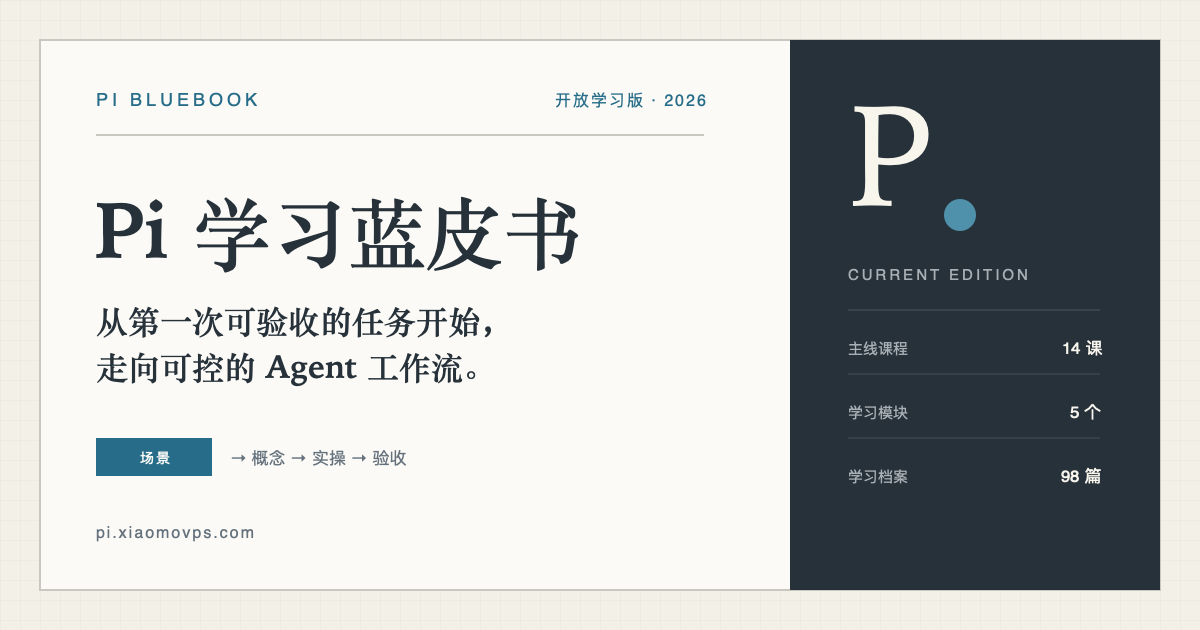
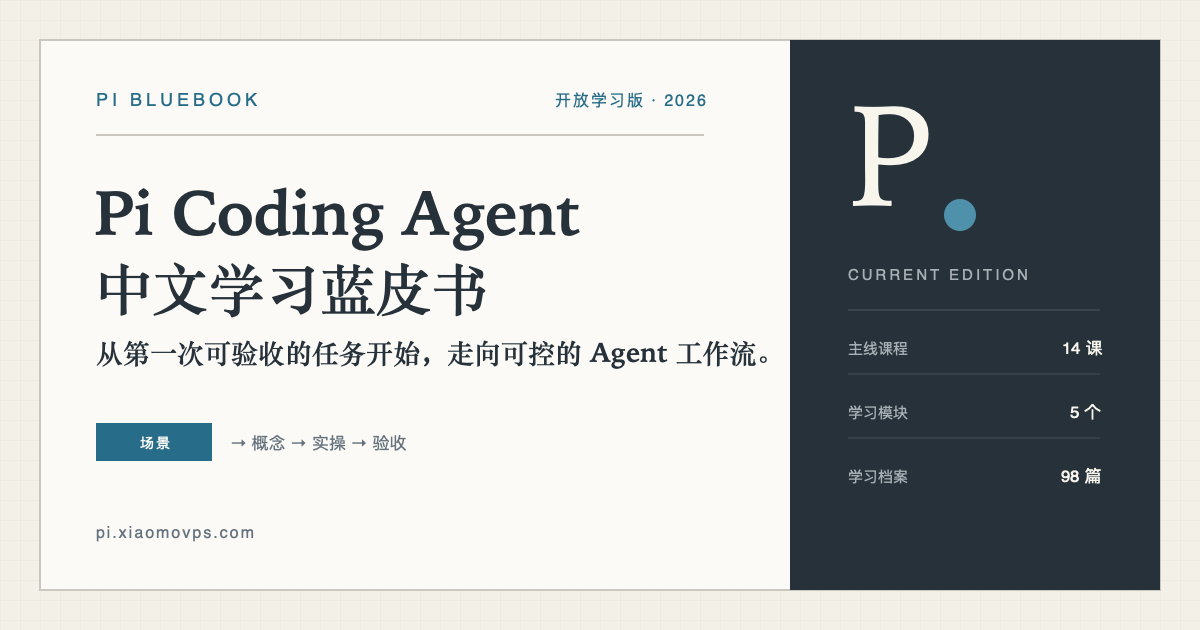
docs: improve GitHub discovery and project metadata

Changed region(s): [[0.0617, 0.3016, 0.6475, 0.6032], [0.0617, 0.6635, 0.3392, 0.754]]

diff --git a/README_zh-TW.md b/README_zh-TW.md
@@ -1,10 +1,19 @@
-# Pi 學習藍皮書
+# Pi 學習藍皮書｜Pi Coding Agent 中文學習路線
 
-一本面向中文初學者的非官方 Pi 學習手冊。先理解 Pi 是什麼、適合誰和真實使用門檻，再從安裝與登入開始，完成第一個可以獨立驗收的檔案任務，逐步學習上下文、工作流和擴充。
+一本面向中文初學者的非官方 Pi Coding Agent（極簡終端機 Coding Harness）學習手冊。從安裝、登入和第一個可驗收任務開始，逐步掌握工作階段（Session）、上下文（Context）、技能（Skill）、擴充功能（Extension）、子代理（Subagent）與長期 Agent 工作流。
 
-每一課按“場景 → 概念 → 實作 → 驗收”展開。目標是讓你知道從哪裡開始、每一步應該看到什麼，以及怎樣確認結果，而不只是複製一段命令。
+[![Quality checks](https://github.com/xiaomoBoy/pi-bluebook/actions/workflows/quality.yml/badge.svg)](https://github.com/xiaomoBoy/pi-bluebook/actions/workflows/quality.yml) [![License: MIT](https://img.shields.io/badge/License-MIT-276d89.svg)](LICENSE)
 
-[線上閱讀](https://pi.xiaomovps.com/zh-TW/) · [從導論開始](https://pi.xiaomovps.com/zh-TW/guide/introduction) · [反饋問題](https://github.com/xiaomoBoy/pi-bluebook/issues) · [簡體中文版](README.md)
+<img src="docs/public/github-social-preview.png" alt="Pi Coding Agent 中文學習藍皮書：從第一次可驗收的任務開始，走向可控的 Agent 工作流" width="1280">
+
+[線上閱讀](https://pi.xiaomovps.com/zh-TW/) · [從導論開始](https://pi.xiaomovps.com/zh-TW/guide/introduction) · [回報問題](https://github.com/xiaomoBoy/pi-bluebook/issues) · [簡體中文版](README.md)
+
+## 這是什麼
+
+- **真實學習路線**：不從功能清單開始，而是先完成一件可以親自檢查結果的小任務，再逐步進入工作階段、上下文、擴充功能和長期工作流。
+- **面向中文初學者**：同時提供 macOS 與 Windows Git Bash 路徑，命令、Pi 內部操作和任務文字分開說明。
+- **強調獨立驗收**：每一課按“場景 → 概念 → 實作 → 驗收”展開，不把 Agent 自述“完成了”當作完成。
+- **持續核驗更新**：版本、認證、模型和命令等易變資訊會標註核驗日期，並以 [Pi 官方文件](https://pi.dev/docs/latest) 和 [官方原始碼](https://github.com/earendil-works/pi-mono) 為準。
 
 ## 繁體中文版說明
 

diff --git a/README.md b/README.md
@@ -1,10 +1,19 @@
-# Pi 学习蓝皮书
+# Pi 学习蓝皮书｜Pi Coding Agent 中文学习路线
 
-一本面向中文初学者的非官方 Pi 学习手册。先理解 Pi 是什么、适合谁和真实使用门槛，再从安装与登录开始，完成第一个可以独立验收的文件任务，逐步学习上下文、工作流和扩展。
+一本面向中文初学者的非官方 Pi Coding Agent（极简终端 Coding Harness）学习手册。从安装、登录和第一个可验收任务开始，逐步掌握 Session、Context、Skill、Extension、Subagent 与长期 Agent 工作流。
 
-每一课按“场景 → 概念 → 实操 → 验收”展开。目标是让你知道从哪里开始、每一步应该看到什么，以及怎样确认结果，而不只是复制一段命令。
+[![Quality checks](https://github.com/xiaomoBoy/pi-bluebook/actions/workflows/quality.yml/badge.svg)](https://github.com/xiaomoBoy/pi-bluebook/actions/workflows/quality.yml) [![License: MIT](https://img.shields.io/badge/License-MIT-276d89.svg)](LICENSE)
+
+<img src="docs/public/github-social-preview.png" alt="Pi Coding Agent 中文学习蓝皮书：从第一次可验收的任务开始，走向可控的 Agent 工作流" width="1280">
 
 [在线阅读](https://pi.xiaomovps.com) · [从导论开始](https://pi.xiaomovps.com/guide/introduction) · [反馈问题](https://github.com/xiaomoBoy/pi-bluebook/issues) · [繁體中文版](README_zh-TW.md)
+
+## 这是什么
+
+- **真实学习路线**：不从功能清单开始，而是先完成一件可以亲自检查结果的小任务，再逐步进入会话、上下文、扩展和长期工作流。
+- **面向中文初学者**：同时提供 macOS 与 Windows Git Bash 路径，命令、Pi 内部操作和任务文字分开说明。
+- **强调独立验收**：每一课按“场景 → 概念 → 实操 → 验收”展开，不把 Agent 自述“完成了”当作完成。
+- **持续核验更新**：版本、认证、模型和命令等易变化信息会标注核验日期，并以 [Pi 官方文档](https://pi.dev/docs/latest) 和 [官方源码](https://github.com/earendil-works/pi-mono) 为准。
 
 ## 当前内容与学习路径
 

diff --git a/docs/zh-TW/index.md b/docs/zh-TW/index.md
@@ -1,17 +1,17 @@
 ---
 layout: home
-title: Pi 學習藍皮書
-titleTemplate: ':title｜中文初學者 Agent 學習路線'
-description: 面向中文初學者的 Pi 系統學習手冊，先理解 Pi，再從第一次任務走向可控的 Agent 工作流。
+title: Pi Coding Agent 學習藍皮書
+titleTemplate: ':title｜中文初學者實戰路線'
+description: 面向中文初學者的 Pi Coding Agent 系統教程，從安裝和第一次可驗收任務開始，逐步掌握工作階段、上下文、技能、擴充功能與長期 Agent 工作流。
 ---
 
 <main class="bluebook-home">
   <section class="bluebook-hero" aria-labelledby="bluebook-title">
     <div class="bluebook-hero__main">
       <p class="bluebook-kicker"><span>PI BLUEBOOK</span><span>開放學習版 · 2026</span></p>
-      <h1 id="bluebook-title">Pi 學習藍皮書</h1>
-      <p class="bluebook-deck">從第一次可驗收的任務開始，逐步理解工作階段（Session）、上下文（Context）、技能（Skill）、擴充功能（Extension）與長期工作流。</p>
-      <p class="bluebook-intro">一條為中文初學者重新編排的系統學習路線。先把一件真實的小事做完整，再一層一層搭出自己的 Pi。</p>
+      <h1 id="bluebook-title">Pi Coding Agent 學習藍皮書</h1>
+      <p class="bluebook-deck">從安裝和第一次可驗收任務開始，逐步理解工作階段（Session）、上下文（Context）、技能（Skill）、擴充功能（Extension）與長期工作流。</p>
+      <p class="bluebook-intro">一條為中文初學者重新編排的終端機 Coding 代理框架（Agent Harness）學習路線。先把一件真實的小事做完整，再一層一層搭出自己的 Pi。</p>
       <div class="bluebook-actions">
         <a class="bluebook-button bluebook-button--primary" href="/zh-TW/guide/introduction">從導論開始</a>
         <a class="bluebook-button" href="#reading-map">檢視內容地圖</a>

diff --git a/docs/index.md b/docs/index.md
@@ -1,17 +1,17 @@
 ---
 layout: home
-title: Pi 学习蓝皮书
-titleTemplate: ':title｜中文初学者 Agent 学习路线'
-description: 面向中文初学者的 Pi 系统学习手册，先理解 Pi，再从第一次任务走向可控的 Agent 工作流。
+title: Pi Coding Agent 学习蓝皮书
+titleTemplate: ':title｜中文初学者实战路线'
+description: 面向中文初学者的 Pi Coding Agent 系统教程，从安装和第一次可验收任务开始，逐步掌握 Session、Context、Skill、Extension 与长期 Agent 工作流。
 ---
 
 <main class="bluebook-home">
   <section class="bluebook-hero" aria-labelledby="bluebook-title">
     <div class="bluebook-hero__main">
       <p class="bluebook-kicker"><span>PI BLUEBOOK</span><span>开放学习版 · 2026</span></p>
-      <h1 id="bluebook-title">Pi 学习蓝皮书</h1>
-      <p class="bluebook-deck">从第一次可验收的任务开始，逐步理解 Session、Context、Skill、Extension 与长期工作流。</p>
-      <p class="bluebook-intro">一条为中文初学者重新编排的系统学习路线。先把一件真实的小事做完整，再一层一层搭出自己的 Pi。</p>
+      <h1 id="bluebook-title">Pi Coding Agent 学习蓝皮书</h1>
+      <p class="bluebook-deck">从安装和第一次可验收任务开始，逐步理解 Session、Context、Skill、Extension 与长期工作流。</p>
+      <p class="bluebook-intro">一条为中文初学者重新编排的终端 Coding Harness 学习路线。先把一件真实的小事做完整，再一层一层搭出自己的 Pi。</p>
       <div class="bluebook-actions">
         <a class="bluebook-button bluebook-button--primary" href="/guide/introduction">从导论开始</a>
         <a class="bluebook-button" href="#reading-map">查看内容地图</a>

diff --git a/.github/pull_request_template.md b/.github/pull_request_template.md
@@ -1,0 +1,19 @@
+## 修改内容
+
+请简要说明这次修改解决了什么问题。
+
+## 读者会看到什么变化
+
+请说明受影响的页面、步骤或学习路径。
+
+## 核对清单
+
+- [ ] 我保留了与本次问题无关的内容。
+- [ ] 我检查了正文、链接、图片和下载材料。
+- [ ] 如果修改了简体正文、导航或练习材料，我已同步并检查繁体版本。
+- [ ] 如果修改了网站内容、配置或样式，我已运行 `npm run docs:check`。
+- [ ] 我没有提交账号、API Key、私人路径、构建产物或其他敏感信息。
+
+## 补充说明
+
+如有官方来源、截图、测试环境或仍待核验的部分，请在这里说明。
